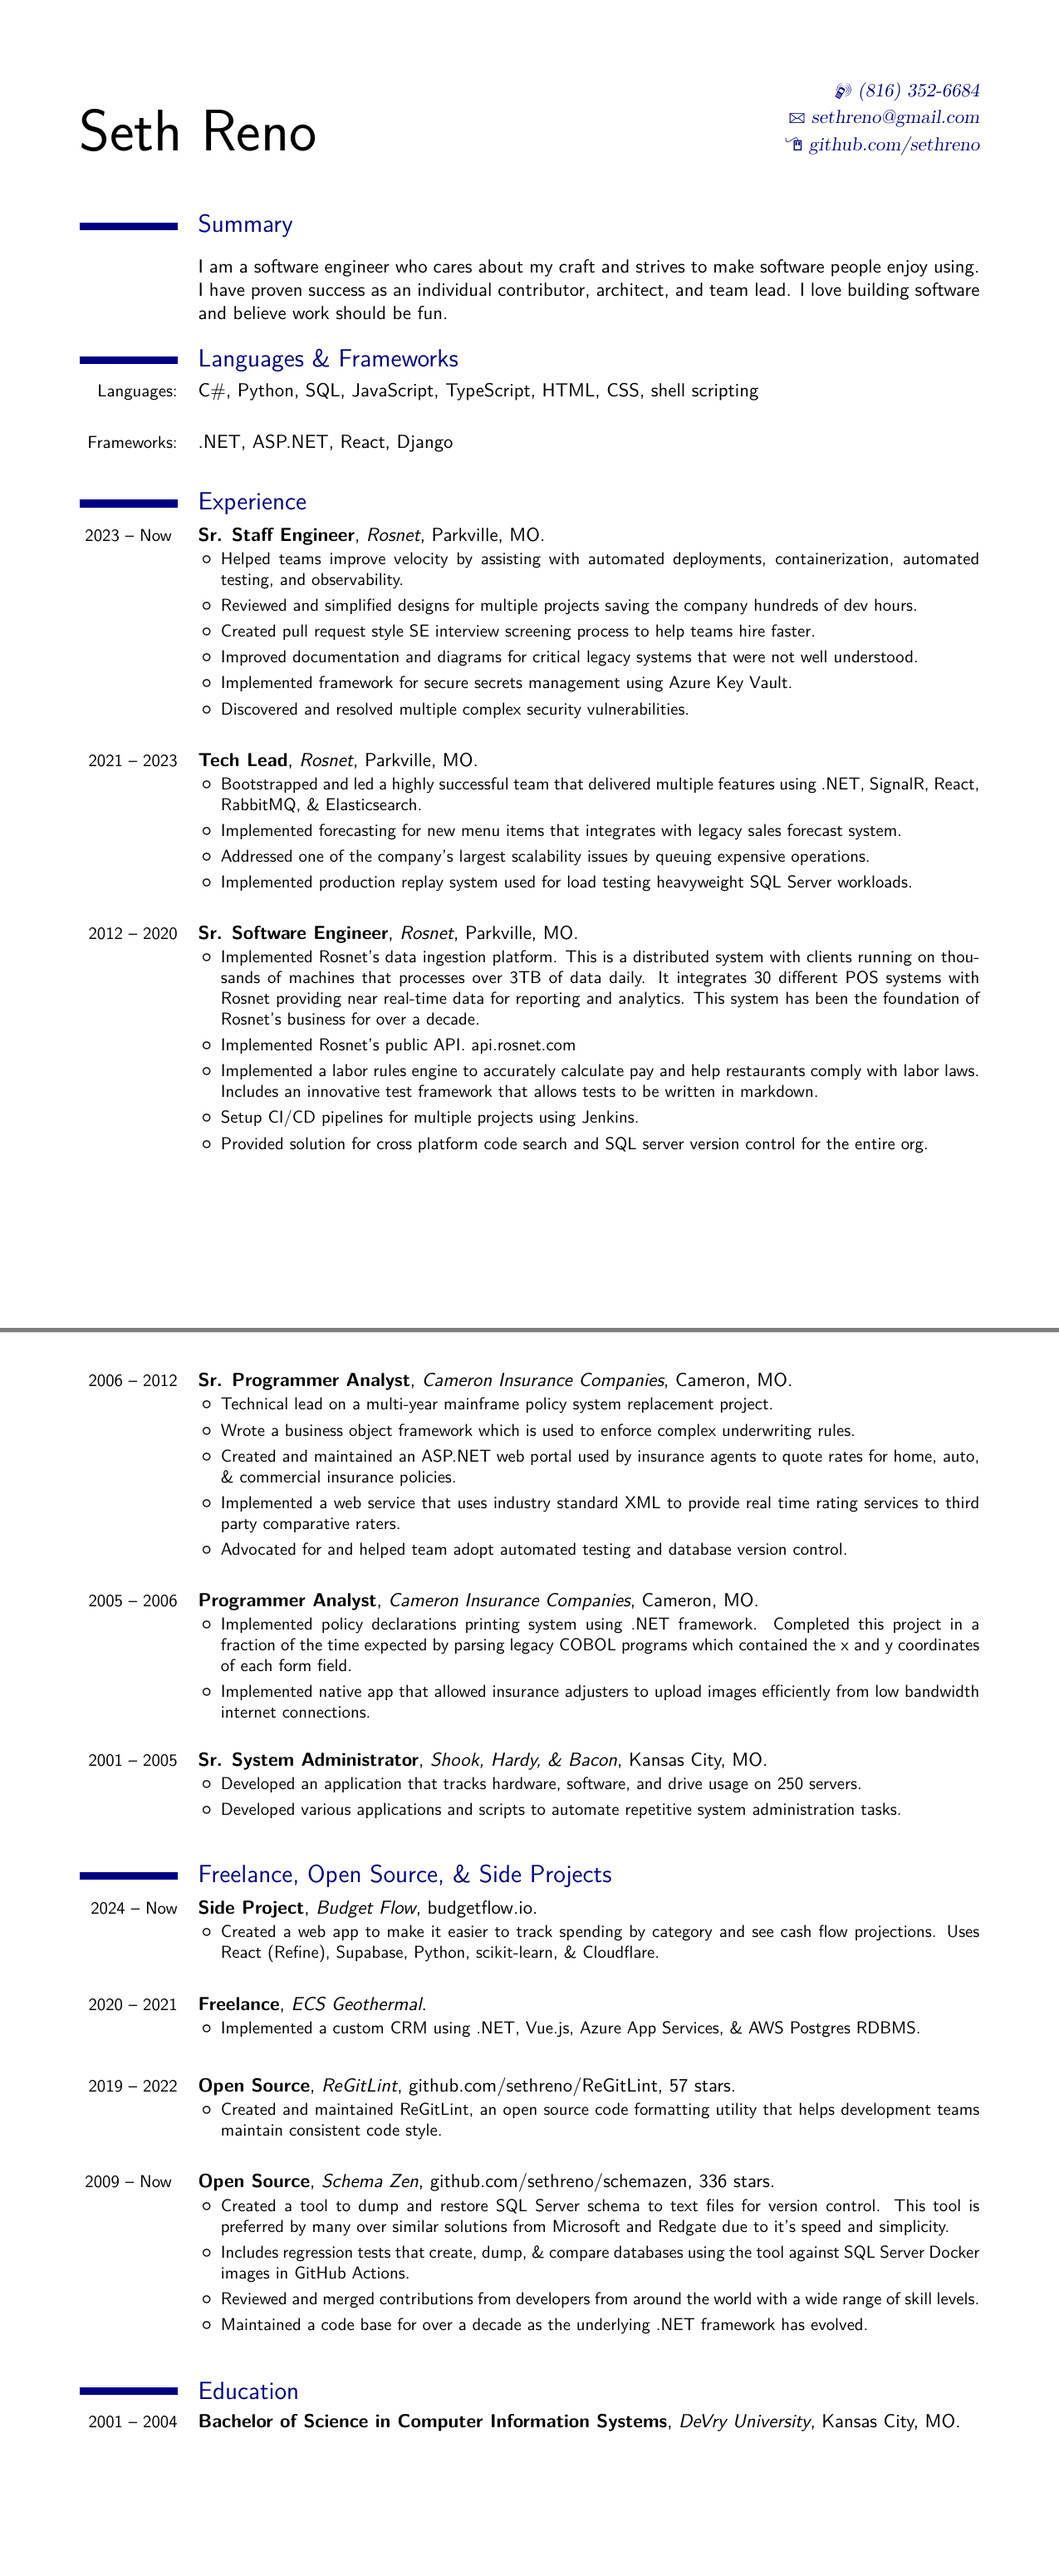
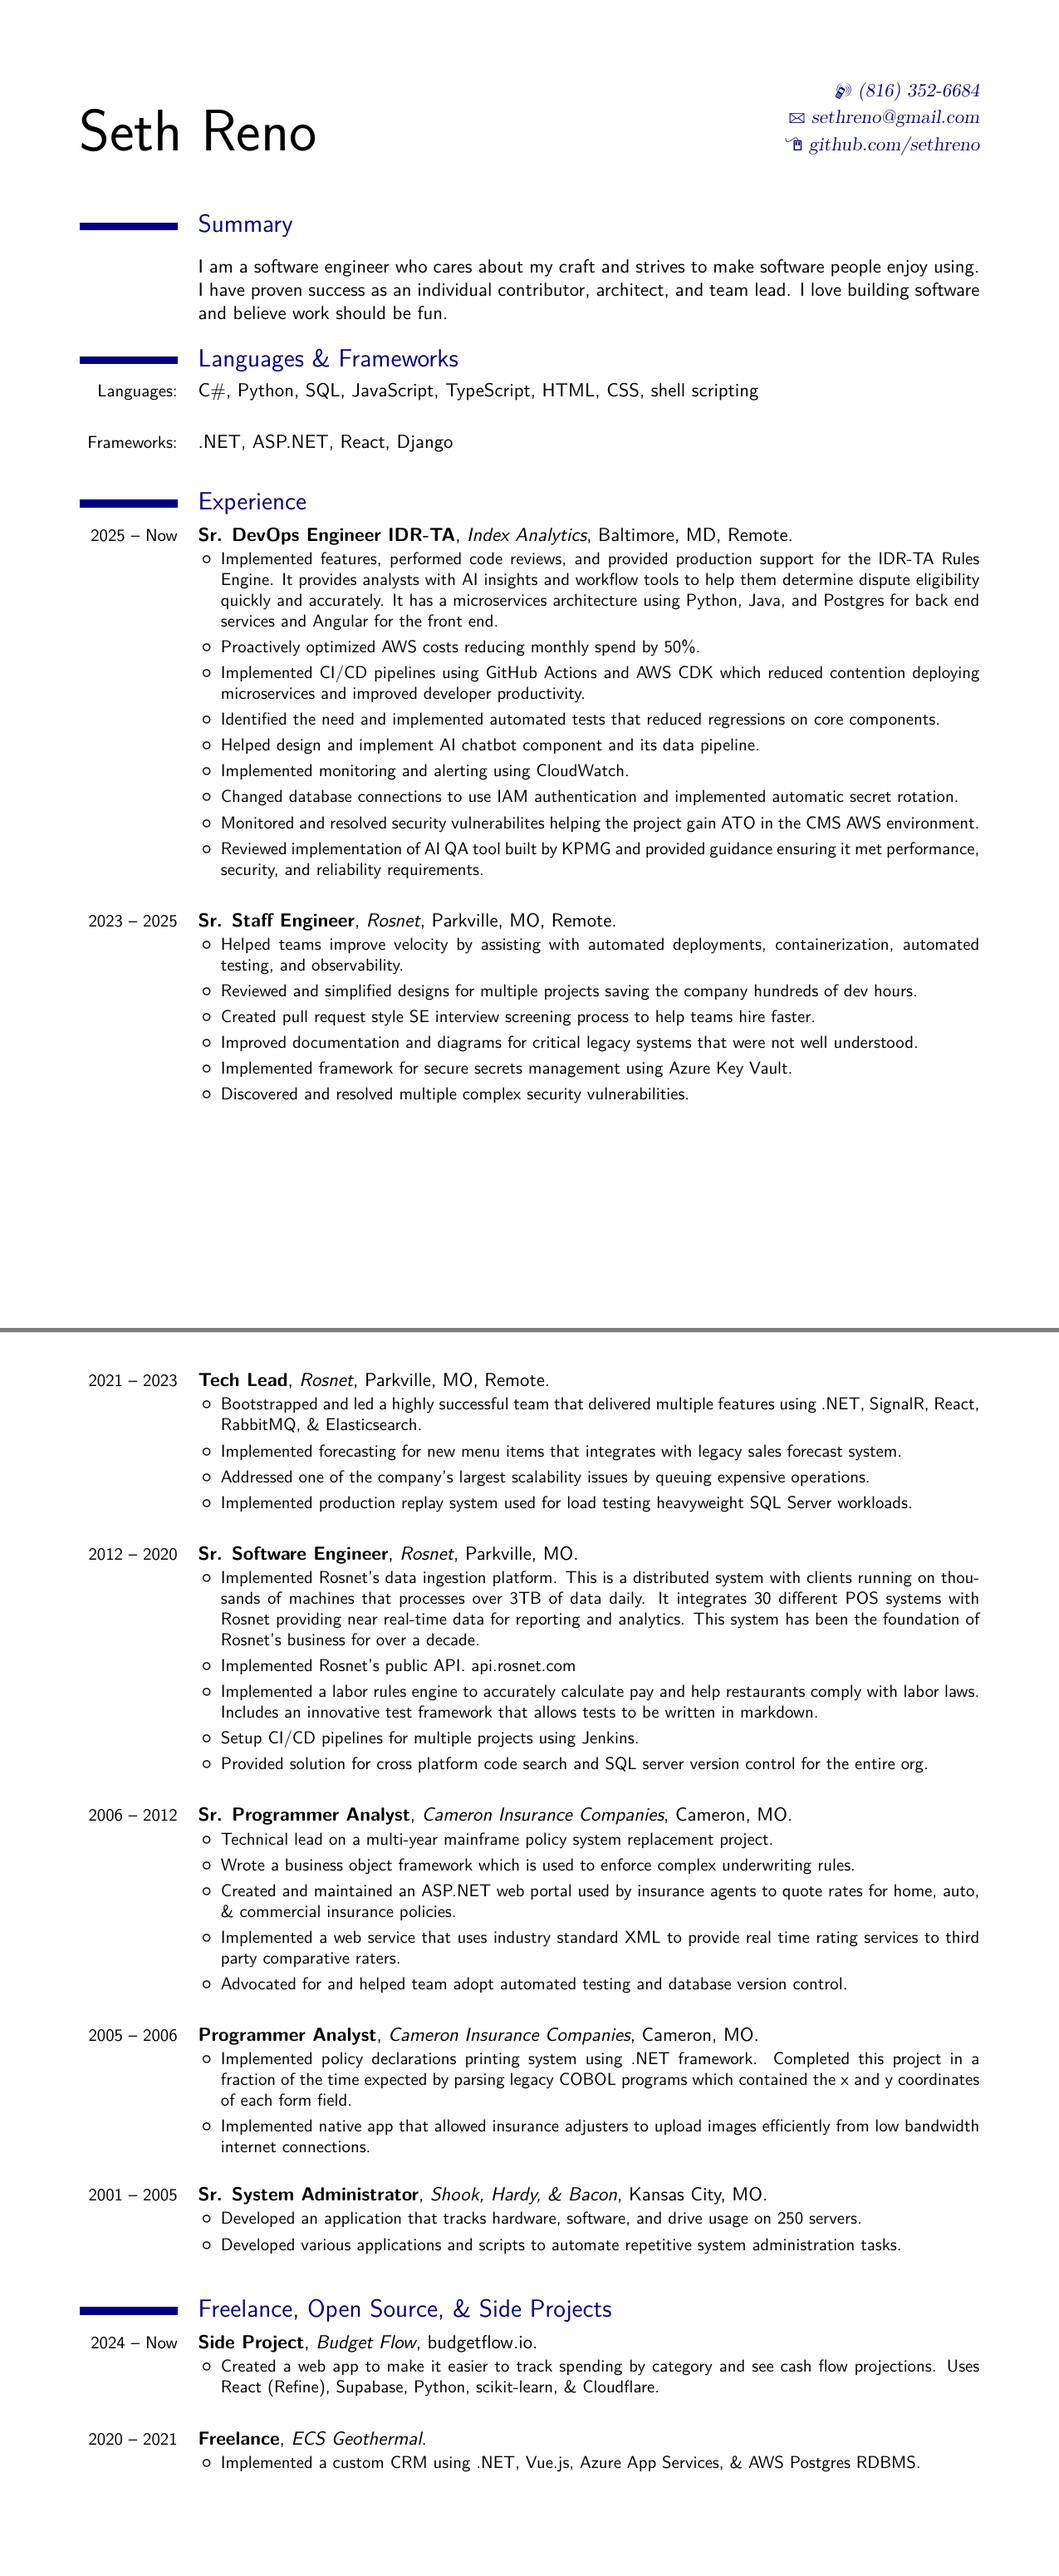
add index experience

diff --git a/src/resume.tex b/src/resume.tex
@@ -64,7 +64,45 @@ fun.
 
 \section{Experience} 
 	\cventry
-{2023 -- Now } {Sr. Staff Engineer}{Rosnet}{Parkville, MO}{}{
+{2025 -- Now} {Sr. DevOps Engineer IDR-TA}{Index Analytics}{Baltimore, MD}{Remote}{
+		\begin{itemize}
+			\item
+				Implemented features, performed code reviews, and provided
+				production support for the IDR-TA Rules Engine. It provides
+				analysts with AI insights and workflow tools to help them
+				determine dispute eligibility quickly and accurately. It has a
+				microservices architecture using Python, Java, and Postgres for
+				back end services and Angular for the front end.
+			\item
+				Proactively optimized AWS costs reducing monthly spend by 50\%.
+			\item
+				Implemented CI/CD pipelines using GitHub Actions and AWS CDK
+				which reduced contention deploying microservices and improved
+				developer productivity.
+			\item
+				Identified the need and implemented automated tests that
+				reduced regressions on core components.
+			\item
+				Helped design and implement AI chatbot component and its data
+				pipeline.
+			\item
+				Implemented monitoring and alerting using CloudWatch.
+			\item
+				Changed database connections to use IAM authentication and
+				implemented automatic secret rotation.
+			\item
+				Monitored and resolved security vulnerabilites helping the
+				project gain ATO in the CMS AWS environment.
+			\item
+				Reviewed implementation of AI QA tool built by KPMG and
+				provided guidance ensuring it met performance, security, and
+				reliability requirements.
+		\end{itemize}
+}
+\linebreak
+
+	\cventry
+{2023 -- 2025} {Sr. Staff Engineer}{Rosnet}{Parkville, MO}{Remote}{
 		\begin{itemize}
 			\item
 				Helped teams improve velocity by assisting with automated
@@ -90,7 +128,7 @@ fun.
 \linebreak
 
 	\cventry
-{2021 -- 2023} {Tech Lead}{Rosnet}{Parkville, MO}{}{
+{2021 -- 2023} {Tech Lead}{Rosnet}{Parkville, MO}{Remote}{
 		\begin{itemize}
 			\item
 				Bootstrapped and led a highly successful team that delivered
